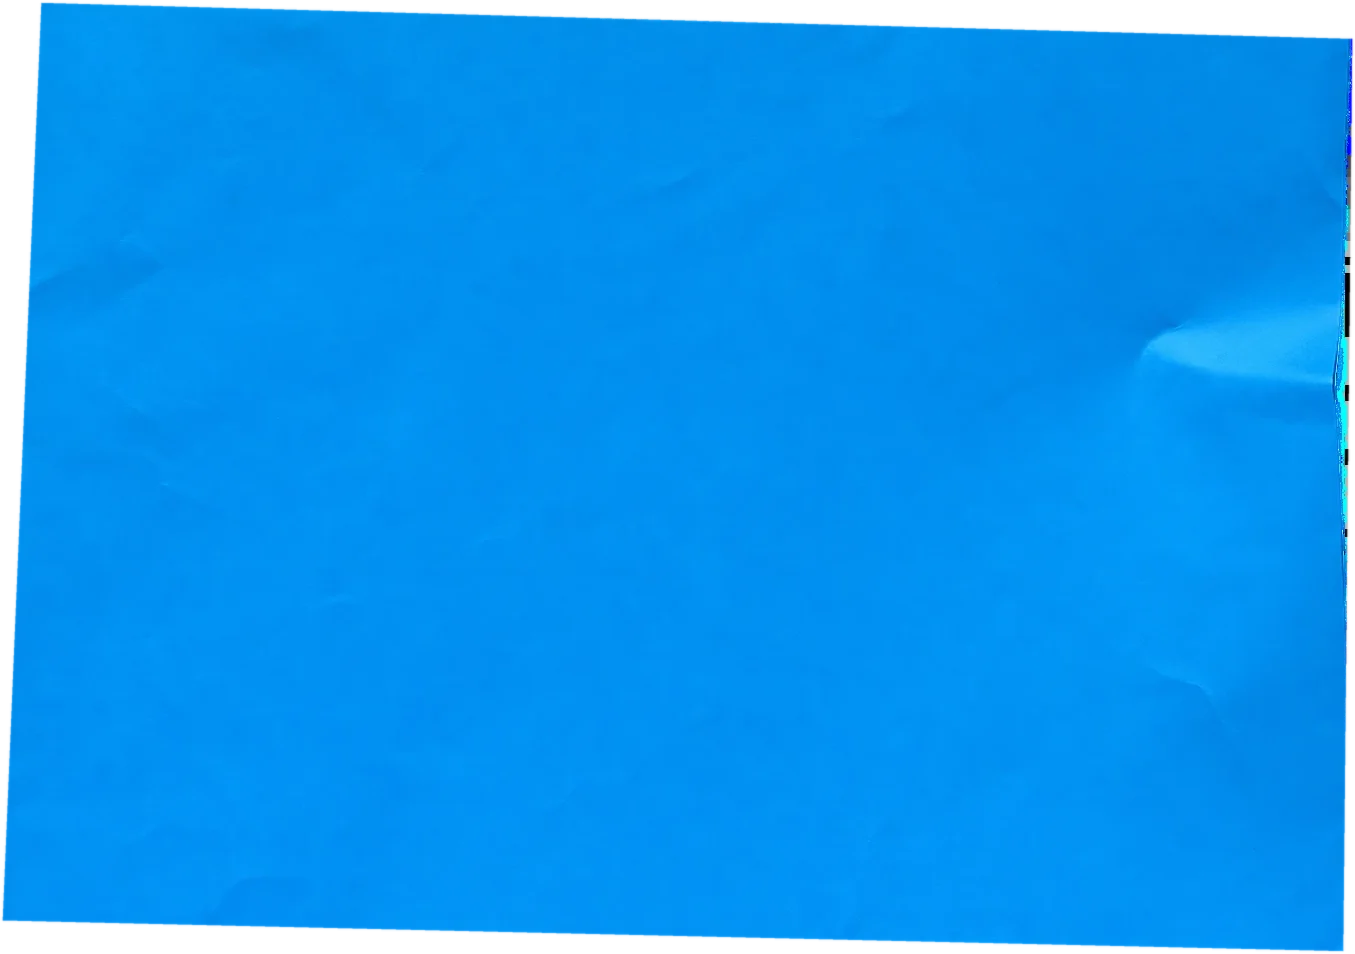
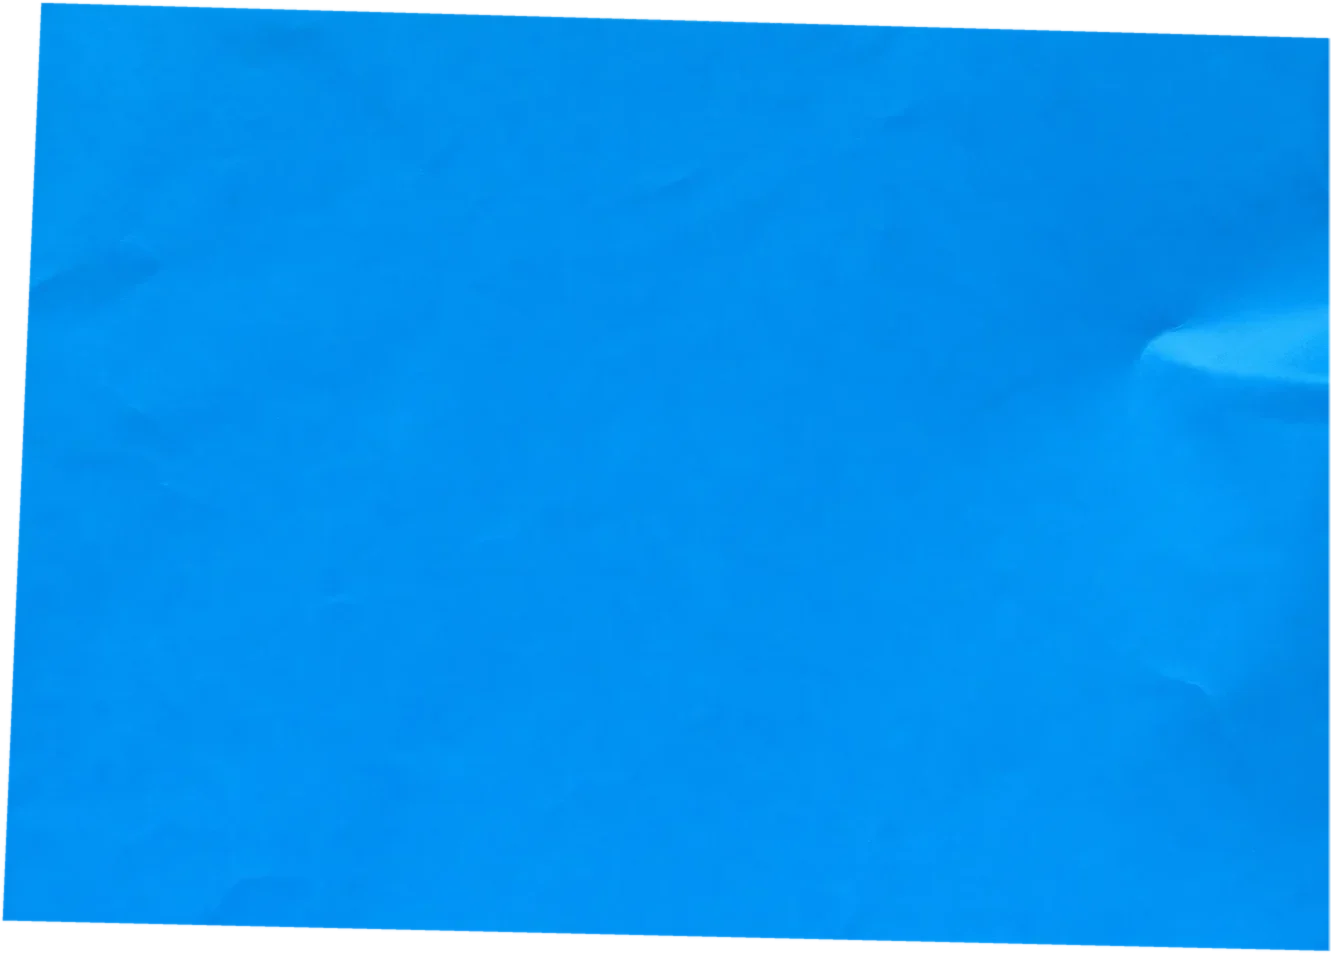
Clean up rough right edge on blue sheet (and specks on green/orange)

Changed region(s): [[0.9857, 0.0304, 1.0, 1.0], [0.8317, 0.3344, 0.8933, 0.3952]]

diff --git a/main.js b/main.js
@@ -4,14 +4,14 @@
   const C = { g: '#4ce902', o: '#f27f01', b: '#0190f0', y: '#edc902' };
   const TRACKS = [["I'm Not Depressed", '2:36'], ['Tell Me', '2:58'], ['Name', '2:24'], ['Need It', '2:48'], ['Feel', '2:24'], ['Anywhere', '3:15'], ["Don't Cry", '3:28']];
   const TK = ['g', 'o', 'b', 'y', 'g', 'o', 'b'], TCOL = TK.map(k => C[k]);
-  const PAPER = {}; ['g', 'o', 'b', 'y'].forEach(k => { const i = new Image(); i.src = `img/paper-${k}.webp`; i.onload = () => drawCard(); PAPER[k] = i; });
+  const PAPER = {}; ['g', 'o', 'b', 'y'].forEach(k => { const i = new Image(); i.src = `img/paper-${k}.webp?v=2`; i.onload = () => drawCard(); PAPER[k] = i; });
   const mob = () => innerWidth <= 820;
 
   // ---------- build tracklist + polaroids (before handwriting mounts) ----------
   const ol = $('.tracks');
   TRACKS.forEach(([t, d], i) => {
     const li = document.createElement('li');
-    li.innerHTML = `<button aria-label="Play ${t}"><span class="note" style="--p:url(img/paper-${TK[i]}.webp);--r:${(i % 2 ? 1 : -1) * (0.6 + (i * 37 % 10) / 10)}deg"></span><span class="n">0${i + 1}</span><div class="hw" data-text="${t}" data-size=".072" data-max="30" data-color="#f3efe7"></div><span class="d">${d}</span><span class="eq"><i></i><i></i><i></i></span></button>`;
+    li.innerHTML = `<button aria-label="Play ${t}"><span class="note" style="--p:url(img/paper-${TK[i]}.webp?v=2);--r:${(i % 2 ? 1 : -1) * (0.6 + (i * 37 % 10) / 10)}deg"></span><span class="n">0${i + 1}</span><div class="hw" data-text="${t}" data-size=".072" data-max="30" data-color="#f3efe7"></div><span class="d">${d}</span><span class="eq"><i></i><i></i><i></i></span></button>`;
     li.querySelector('button').onclick = () => play(i);
     ol.appendChild(li);
   });
@@ -159,7 +159,7 @@
     const go = () => {
       cur = i; aud.src = `audio/${i + 1}.m4a`; aud.volume = 0; aud.play().catch(() => {});
       gsap.to(aud, { volume: 1, duration: 0.8 });
-      pl.style.setProperty('--pc', TCOL[i]); pl.style.setProperty('--pp', `url(img/paper-${TK[i]}.webp)`); pn.textContent = '0' + (i + 1);
+      pl.style.setProperty('--pc', TCOL[i]); pl.style.setProperty('--pp', `url(img/paper-${TK[i]}.webp?v=2)`); pn.textContent = '0' + (i + 1);
       pt._hw ? (pt._hw.set(TRACKS[i][0]), Hand.write(pt, 0.5)) : (pt.dataset.text = TRACKS[i][0]);
       pl.classList.add('show'); setUI();
     };

diff --git a/index.html b/index.html
@@ -8,7 +8,7 @@
 <meta property="og:image" content="img/front.webp">
 <link rel="preconnect" href="https://fonts.googleapis.com"><link rel="preconnect" href="https://fonts.gstatic.com" crossorigin>
 <link href="https://fonts.googleapis.com/css2?family=Courier+Prime:wght@400;700&display=swap" rel="stylesheet">
-<link rel="stylesheet" href="style.css?v=8">
+<link rel="stylesheet" href="style.css?v=9">
 </head>
 <body>
 <div class="grain" aria-hidden="true"></div>
@@ -132,6 +132,6 @@
 
 <script src="https://cdnjs.cloudflare.com/ajax/libs/gsap/3.12.5/gsap.min.js"></script>
 <script src="hand.js?v=5"></script>
-<script src="main.js?v=10"></script>
+<script src="main.js?v=11"></script>
 </body>
 </html>

diff --git a/style.css b/style.css
@@ -1,6 +1,6 @@
 :root{
   --g:#4ce902; --o:#f27f01; --b:#0190f0; --y:#edc902;
-  --pg:url(img/paper-g.webp); --po:url(img/paper-o.webp); --pb:url(img/paper-b.webp); --py:url(img/paper-y.webp);
+  --pg:url(img/paper-g.webp?v=2); --po:url(img/paper-o.webp?v=2); --pb:url(img/paper-b.webp?v=2); --py:url(img/paper-y.webp?v=2);
   --ink:#151515; --cream:#f1ebdf; --asph:#1c1715; --sky:#0a56c9;
   --mono:'Courier Prime',ui-monospace,Menlo,monospace;
 }
